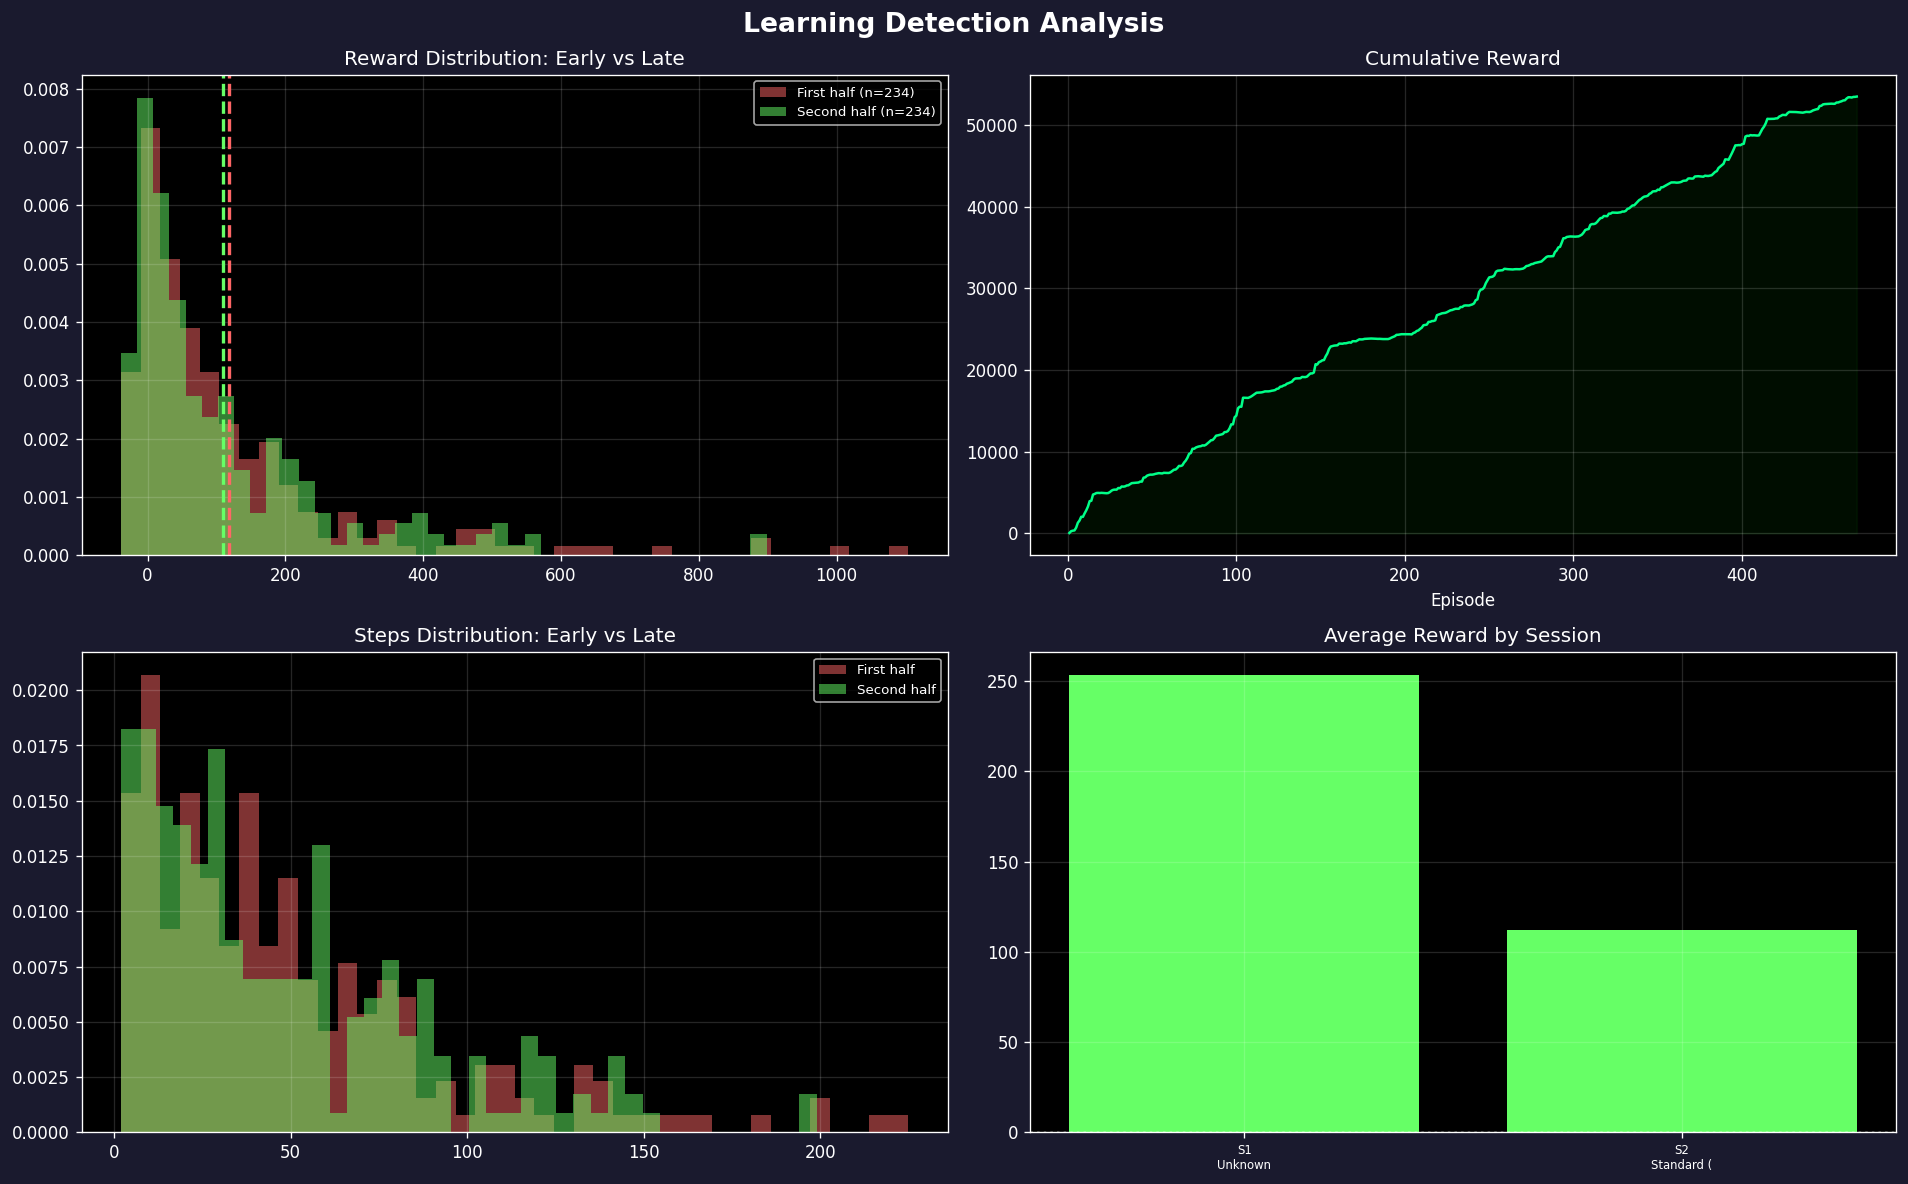
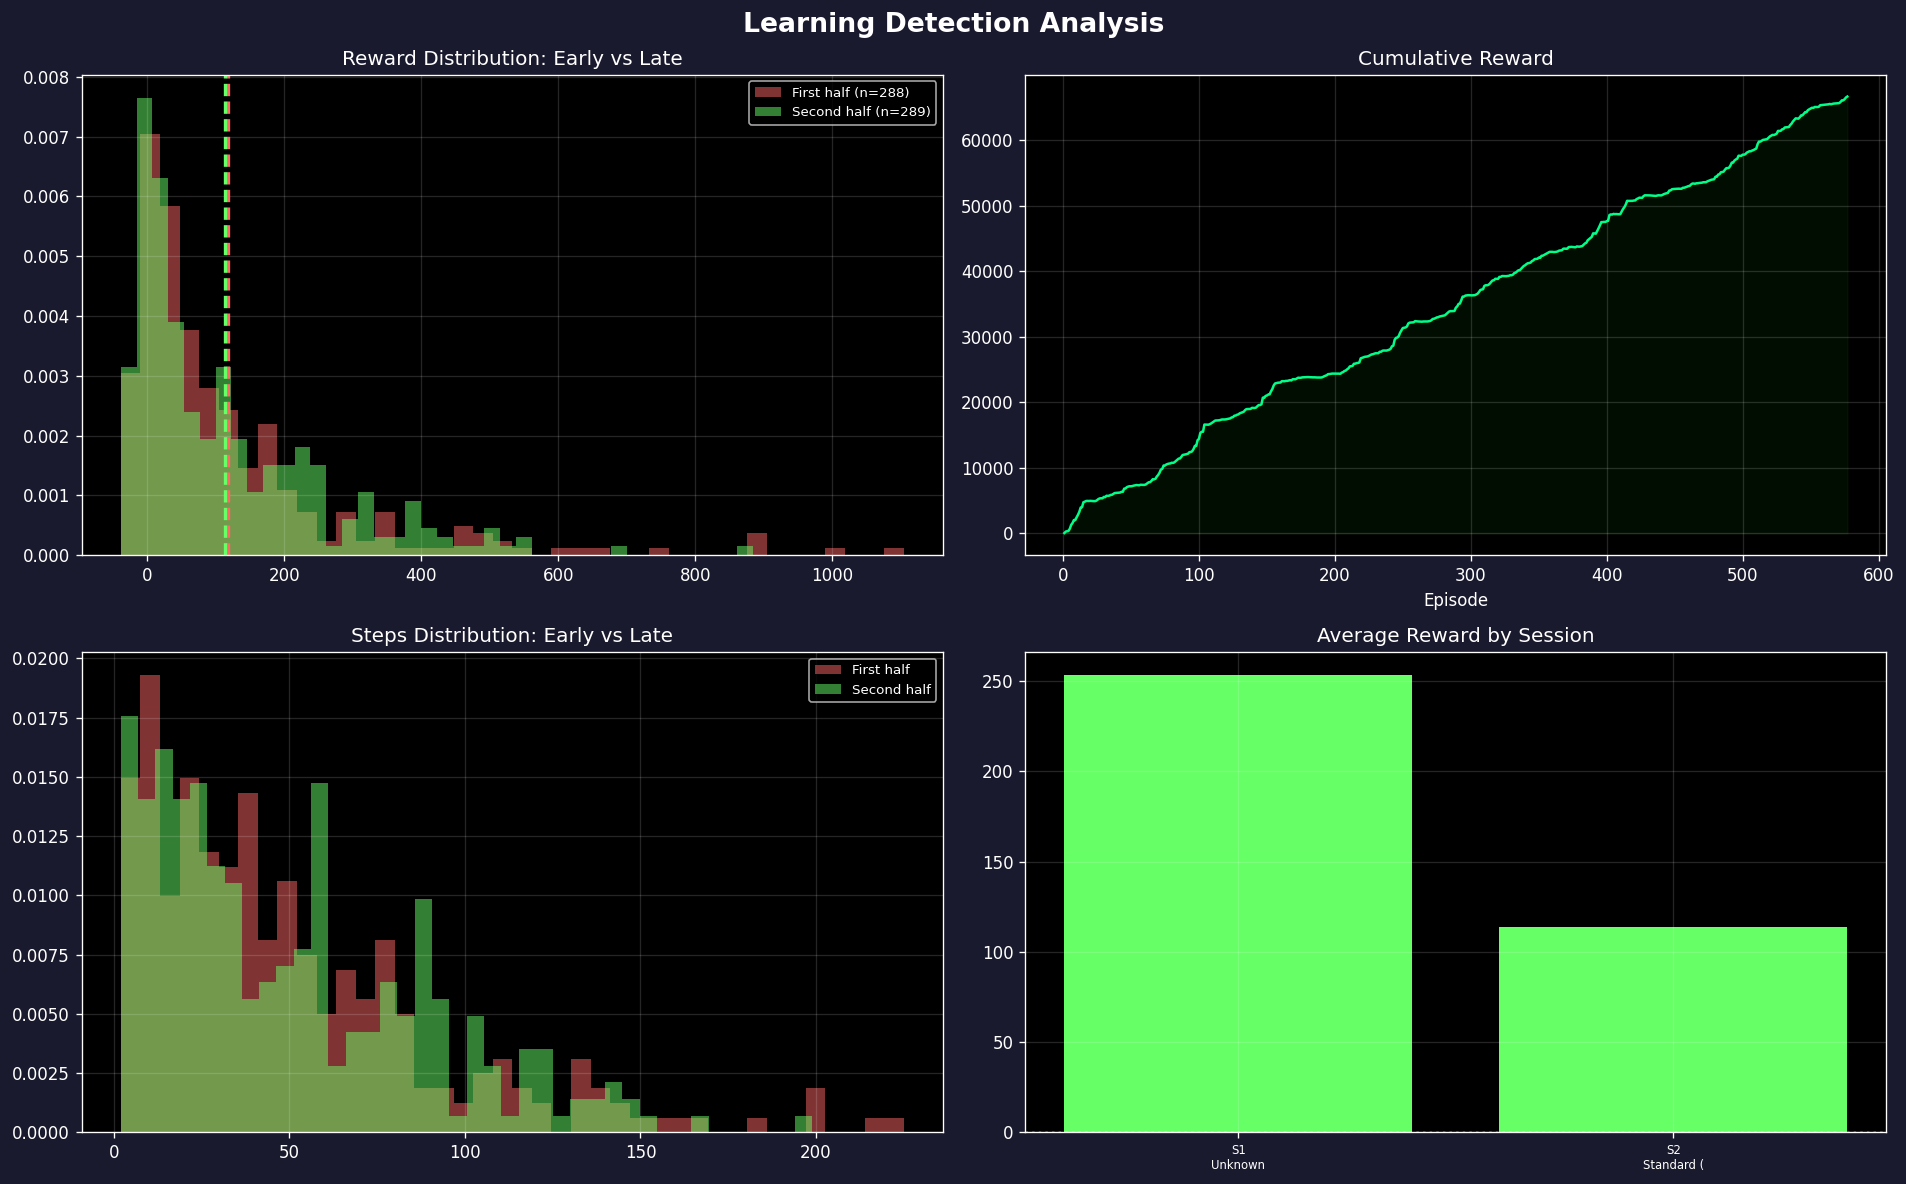
stats

diff --git a/gen2/progress_report.md b/gen2/progress_report.md
@@ -1,7 +1,7 @@
 # Slither.io Bot - Training Progress Report
 
-**Generated:** 2026-02-12 18:10:29  
-**Total Episodes:** 468  
+**Generated:** 2026-02-12 18:20:33  
+**Total Episodes:** 577  
 **Training Sessions:** 2
 
 ## Verdict: NOT LEARNING (Confidence: 35%)
@@ -9,11 +9,11 @@
 **Goal Feasibility:** VERY UNLIKELY (<5% chance)
 
 ### Critical Issues
-- Very short episodes: avg=49 steps (dying too fast)
+- Very short episodes: avg=50 steps (dying too fast)
 
 ### Warnings
-- Rewards flat: change = -8.3 between halves
-- Loss very high (43.71) - training unstable
+- Rewards flat: change = -4.6 between halves
+- Loss very high (37.66) - training unstable
 
 ### Positive Signals
 - Loss decreasing (model converging)
@@ -22,10 +22,10 @@
 
 | Metric | Mean | Std | Min | Max | P50 | P95 |
 |--------|------|-----|-----|-----|-----|-----|
-| Reward | 114.25 | 167.03 | -38.53 | 1104.08 | 55.86 | 460.56 |
-| Steps | 48.86 | 41.41 | 2.00 | 225.00 | 38.00 | 134.30 |
-| Food | 25.47 | 8.60 | 0.00 | 62.00 | 24.00 | 41.00 |
-| Loss | 48.41 | 39.94 | 0.00 | 588.59 | 39.59 | 102.16 |
+| Reward | 115.53 | 161.09 | -38.53 | 1104.08 | 58.73 | 446.90 |
+| Steps | 49.59 | 40.54 | 2.00 | 225.00 | 39.00 | 133.00 |
+| Food | 25.69 | 8.56 | 0.00 | 62.00 | 24.00 | 41.00 |
+| Loss | 45.99 | 37.19 | 0.00 | 588.59 | 38.74 | 97.91 |
 
 ## Goal Progress
 
@@ -39,7 +39,7 @@
 | # | Style | Episodes | Avg Reward | Avg Steps |
 |---|-------|----------|------------|----------|
 | 1 | Unknown | 1-8 | 253.5 | 86 |
-| 2 | Standard (Curriculum) | 9-468 | 111.8 | 48 |
+| 2 | Standard (Curriculum) | 9-577 | 113.6 | 49 |
 
 ## Recommendations
 
